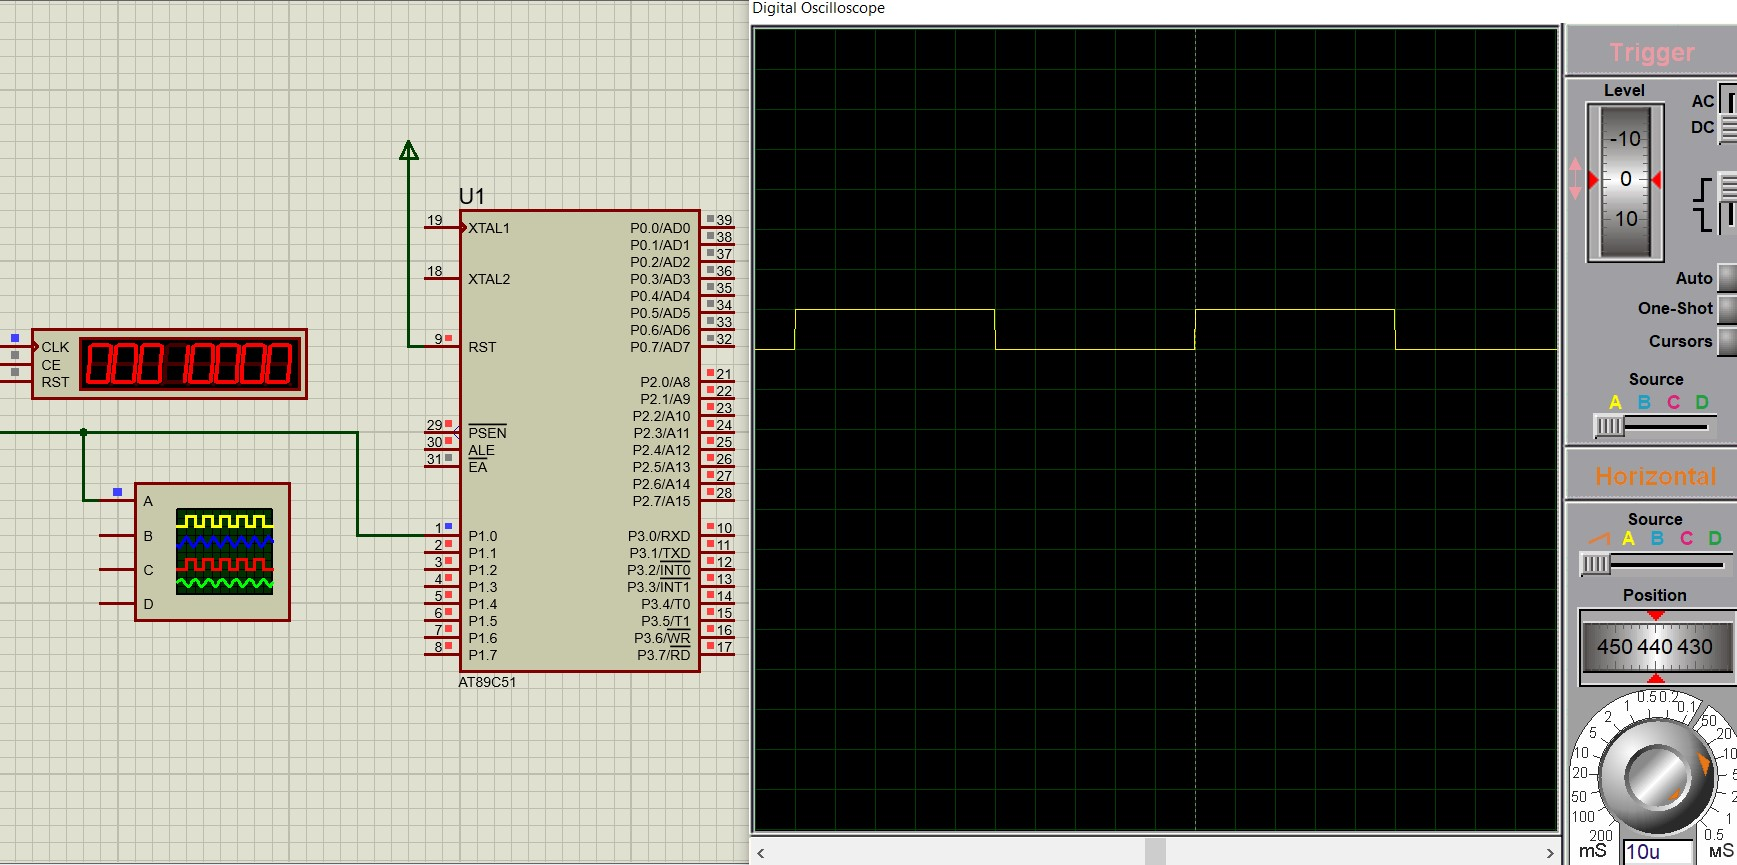
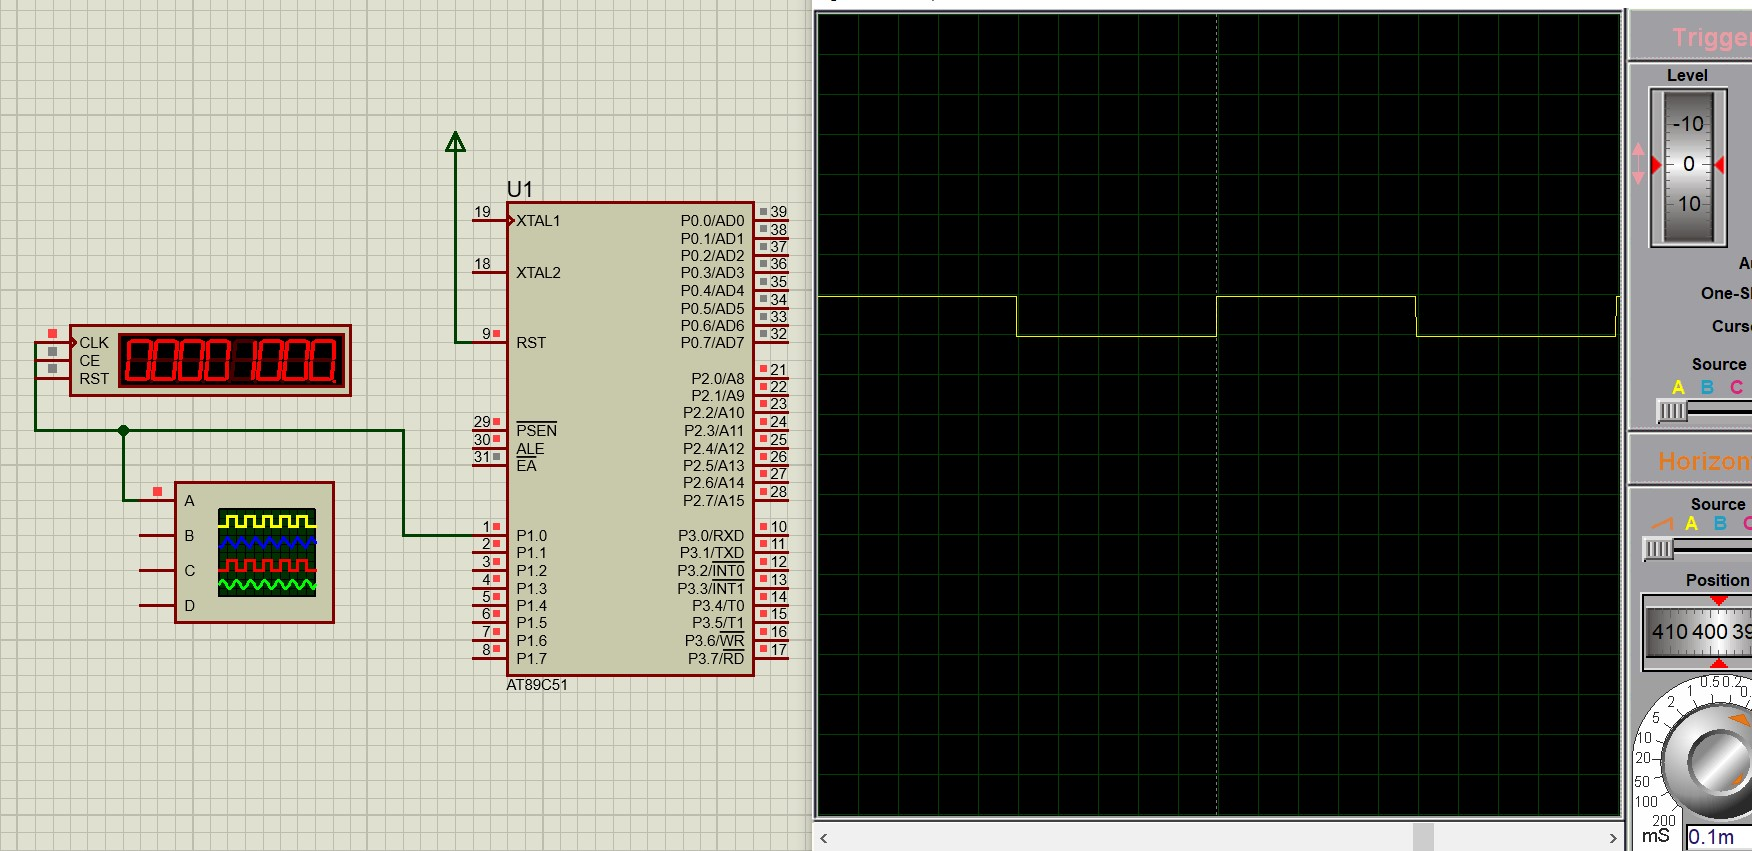
create_Pulse - ver 5.0 - freq 1KHz, duty cycle 50%

Changed region(s): [[0.0, 0.0, 1.0, 1.0]]

diff --git a/README.md b/README.md
@@ -10,3 +10,4 @@
         + Version 2: the highest possible frequency, duty cycle is 50%.
         + Version 3: frequency is 100KHz, duty cycle is 50%.
         + Version 4: frequency is 10KHz, duty cycle is 50%.
+        + Version 5: frequency is 1KHz, duty cycle is 50%.
